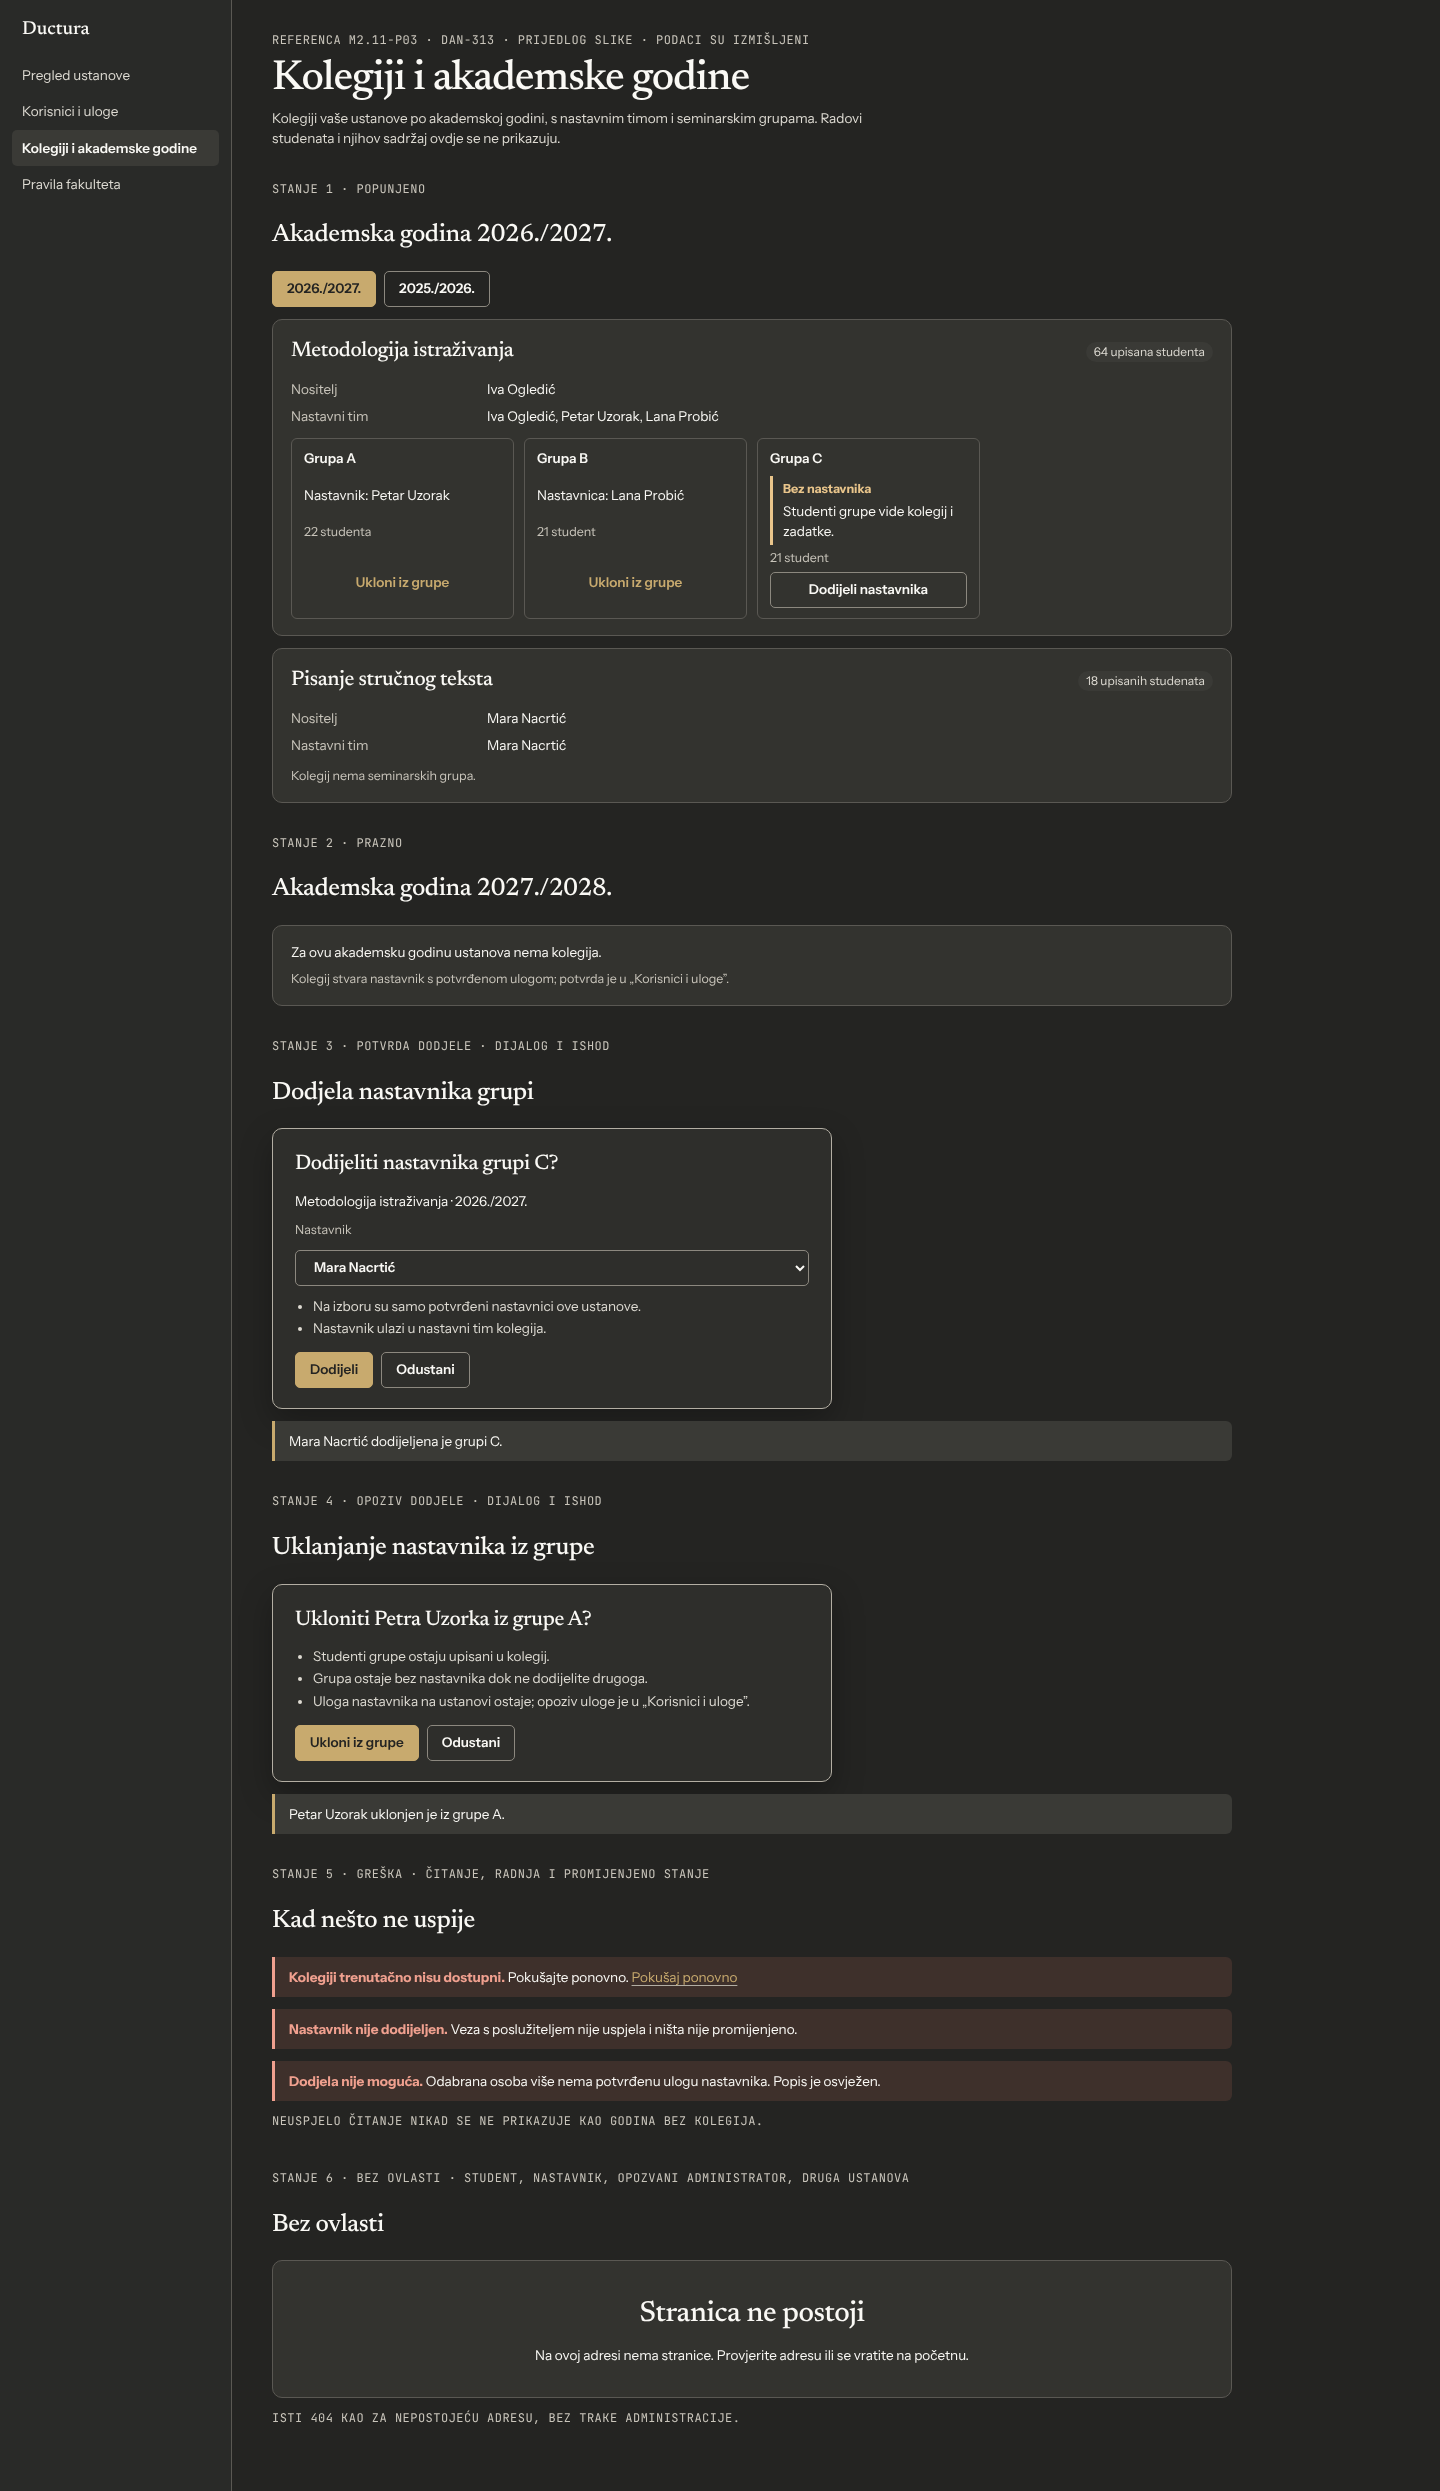
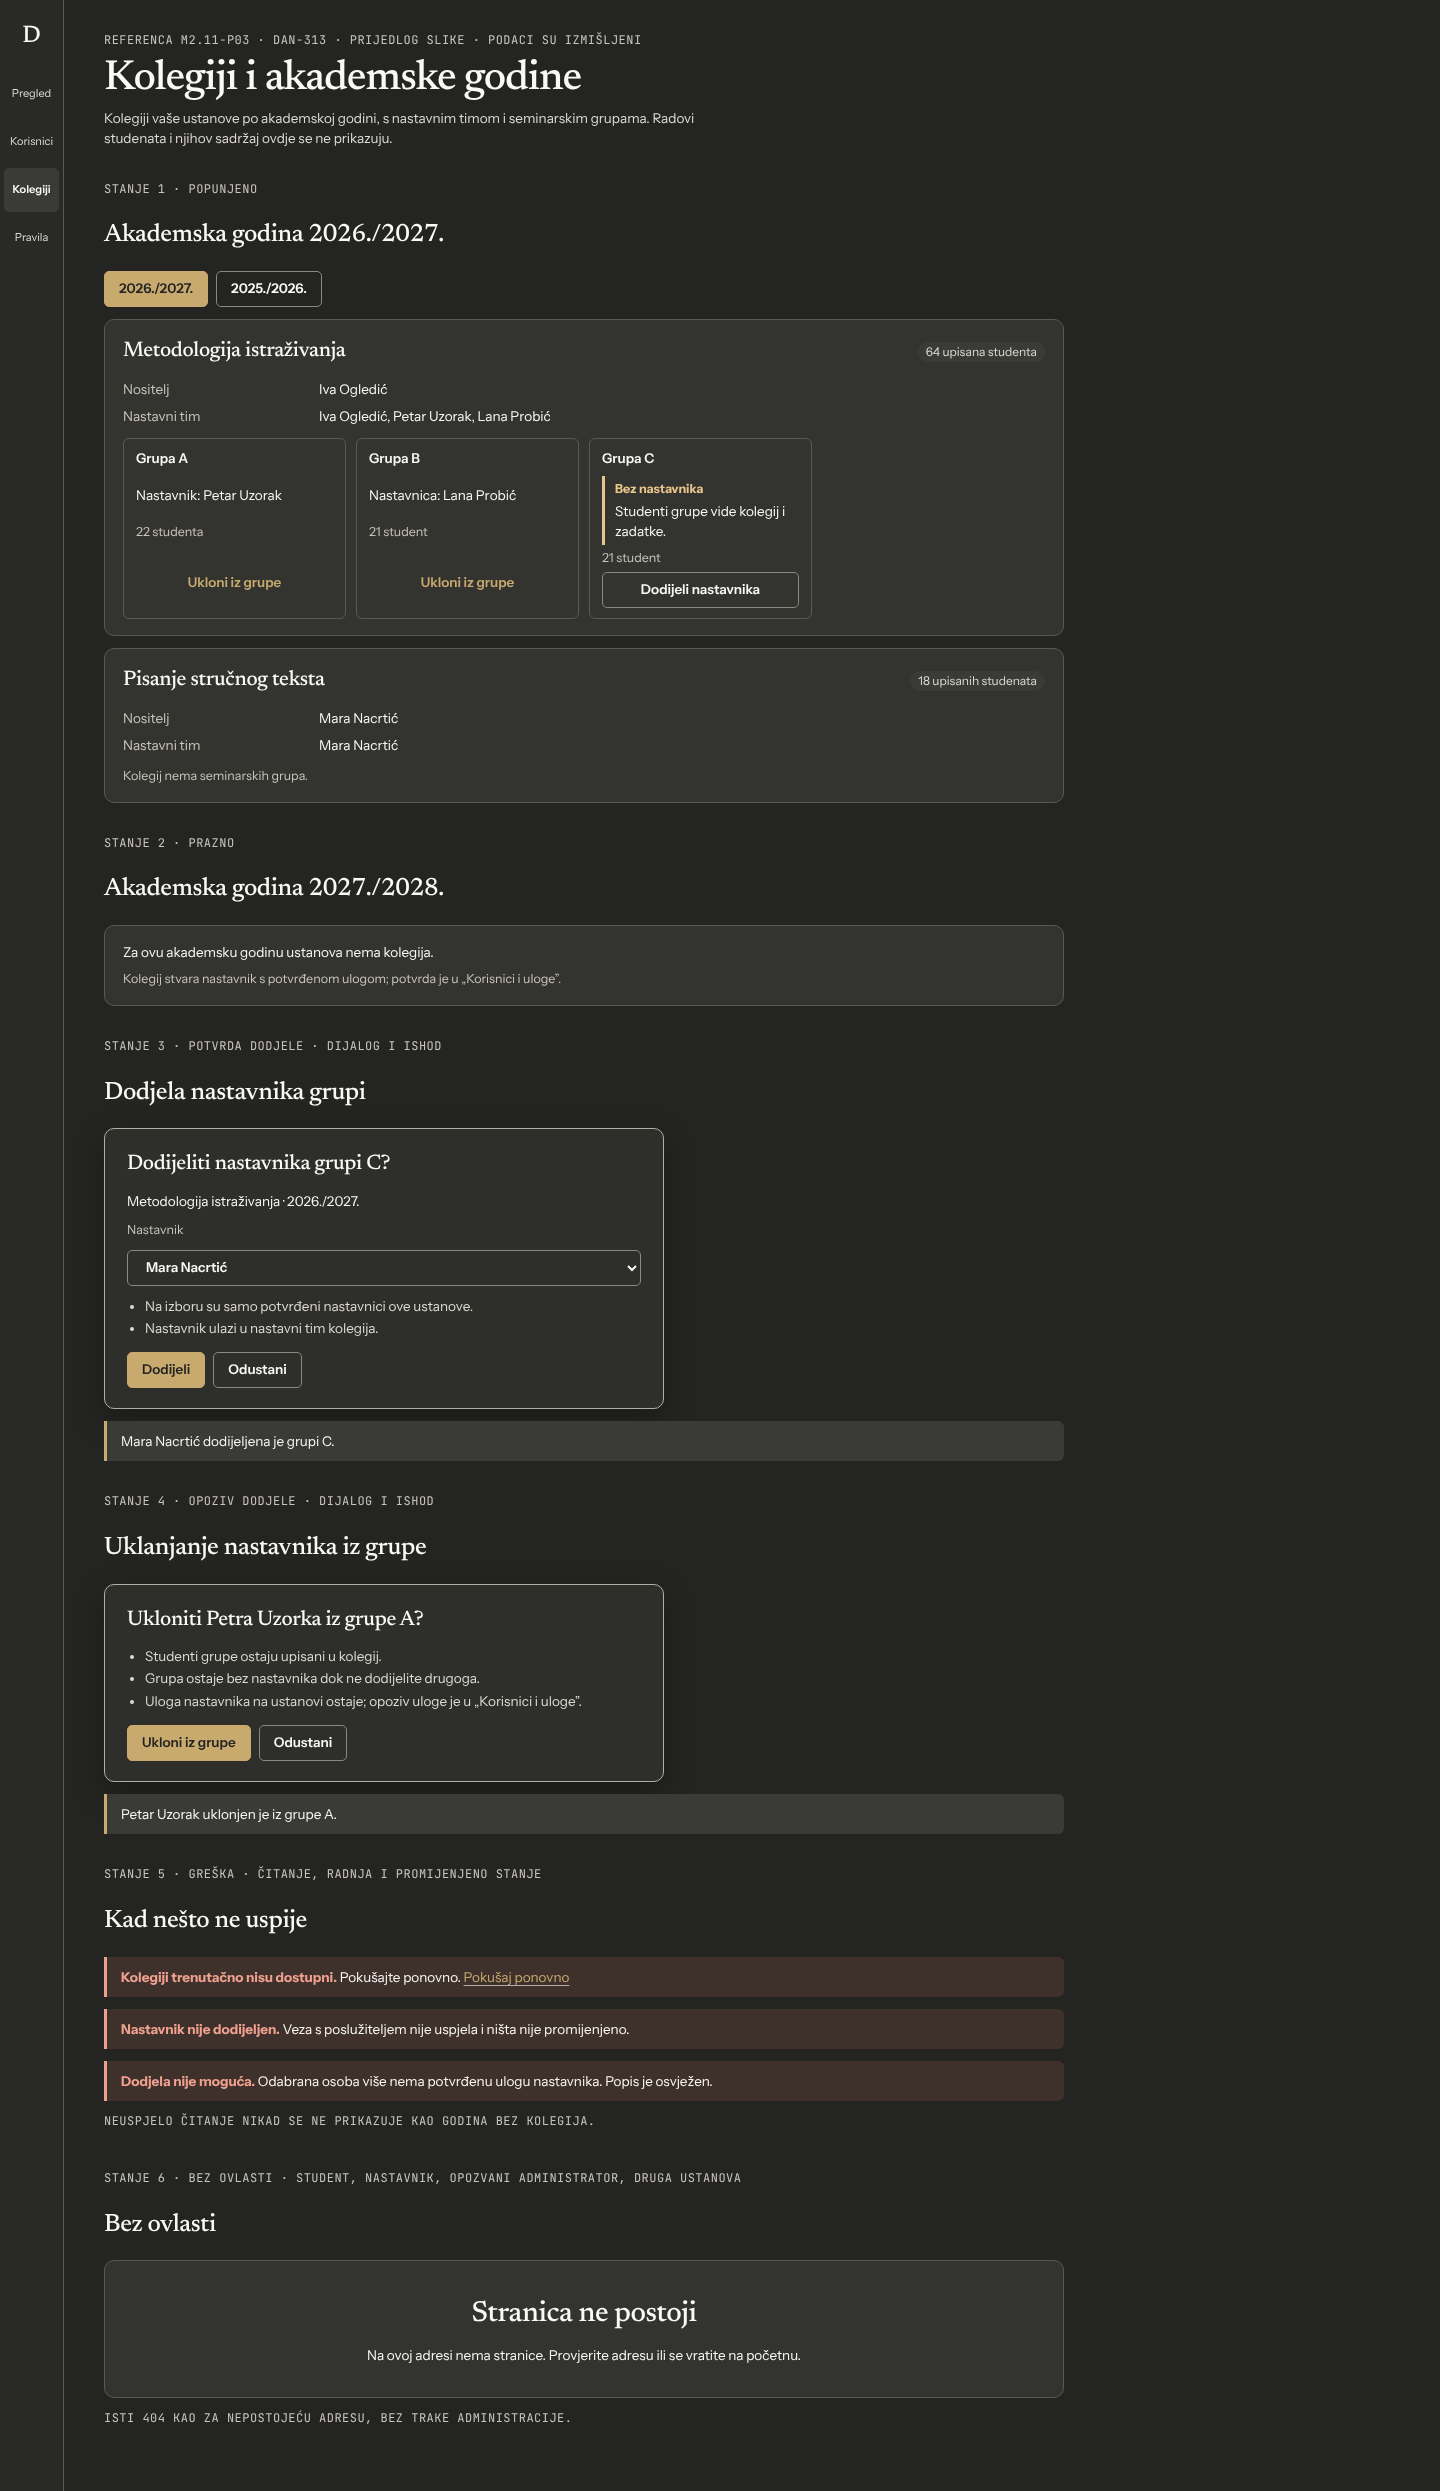
fix: use the 64 px D-202 rail in M2.11 references (DAN-313)
Claude-Session: https://claude.ai/code/session_011GCKG9DPbqrNVnZyCmTEnY

diff --git a/docs/design/ductura/m2-reference/reference.css b/docs/design/ductura/m2-reference/reference.css
@@ -30,11 +30,14 @@ a { color: var(--accent); text-decoration: underline; text-decoration-color: var
 /* Oznake varijanti nisu dio sučelja. */
 .ref-tag { font: 12px/1.4 var(--ff-mono); color: var(--ink-3); text-transform: uppercase; letter-spacing: 0.04em; margin-bottom: 8px; }
 
-/* Ljuska administracije (kao A-04) */
-.shell { display: grid; grid-template-columns: 232px minmax(0, 1fr); min-height: 100vh; }
-.side { background: var(--chrome); border-right: 1px solid var(--rule-2); padding: 20px 12px; }
-.side .brand { font: 500 19px/1 var(--ff-display); padding: 0 10px 18px; }
-.side nav a { display: block; padding: 8px 10px; border-radius: 5px; color: var(--ink-2); text-decoration: none; min-height: 32px; }
+/* Ljuska administracije: uska bočna traka od 64 px (D-202 t. 1). Ikone iz
+   paketa se ne koriste (D-203 t. 8), pa stavke nose kratak tekst. */
+.shell { display: grid; grid-template-columns: 64px minmax(0, 1fr); min-height: 100vh; }
+.side { background: var(--chrome); border-right: 1px solid var(--rule-2); padding: 14px 4px; display: grid; align-content: start; gap: 14px; }
+.side .brand { display: grid; place-items: center; min-height: 44px; color: var(--ink); text-decoration: none; font: 500 24px/1 var(--ff-display); }
+.side .brand .word { display: none; }
+.side nav { display: grid; gap: 4px; }
+.side nav a { display: grid; place-items: center; text-align: center; min-height: 44px; padding: 6px 2px; border-radius: 5px; color: var(--ink-2); text-decoration: none; font-size: 11px; line-height: 1.2; }
 .side nav a[aria-current] { background: var(--well); color: var(--ink); font-weight: 600; }
 .menu { display: none; }
 .main { padding: 32px 40px 56px; max-width: 1040px; display: grid; gap: 32px; min-width: 0; }
@@ -85,7 +88,9 @@ dl.kv dd { margin: 0; }
   .shell { grid-template-columns: minmax(0, 1fr); }
   .side { border-right: 0; border-bottom: 1px solid var(--rule-2); padding: 12px 16px; display: flex; justify-content: space-between; align-items: center; }
   .side nav { display: none; }
-  .side .brand { padding: 0; }
+  .side .brand { padding: 0; min-height: 0; }
+  .side .brand .mark { display: none; }
+  .side .brand .word { display: inline; font-size: 19px; }
   .menu { display: inline-block; }
 }
 @media (max-width: 640px) {

diff --git a/docs/design/ductura/m2-reference/a02-korisnici-i-uloge.html b/docs/design/ductura/m2-reference/a02-korisnici-i-uloge.html
@@ -9,13 +9,13 @@
 <body>
 <div class="shell">
   <aside class="side">
-    <div class="brand">Ductura</div>
+    <a class="brand" href="#" aria-label="Ductura, početna stranica administracije"><span class="mark" aria-hidden="true">D</span><span class="word">Ductura</span></a>
     <button class="btn secondary menu" type="button" aria-expanded="false">Izbornik</button>
     <nav aria-label="Administracija">
-      <a href="#">Pregled ustanove</a>
-      <a href="#" aria-current="page">Korisnici i uloge</a>
-      <a href="#">Kolegiji i akademske godine</a>
-      <a href="#">Pravila fakulteta</a>
+      <a href="#">Pregled</a>
+      <a href="#" aria-current="page">Korisnici</a>
+      <a href="#">Kolegiji</a>
+      <a href="#">Pravila</a>
     </nav>
   </aside>
   <main class="main">

diff --git a/docs/design/ductura/m2-reference/a03-kolegiji-tim-i-grupe.html b/docs/design/ductura/m2-reference/a03-kolegiji-tim-i-grupe.html
@@ -9,13 +9,13 @@
 <body>
 <div class="shell">
   <aside class="side">
-    <div class="brand">Ductura</div>
+    <a class="brand" href="#" aria-label="Ductura, početna stranica administracije"><span class="mark" aria-hidden="true">D</span><span class="word">Ductura</span></a>
     <button class="btn secondary menu" type="button" aria-expanded="false">Izbornik</button>
     <nav aria-label="Administracija">
-      <a href="#">Pregled ustanove</a>
-      <a href="#">Korisnici i uloge</a>
-      <a href="#" aria-current="page">Kolegiji i akademske godine</a>
-      <a href="#">Pravila fakulteta</a>
+      <a href="#">Pregled</a>
+      <a href="#">Korisnici</a>
+      <a href="#" aria-current="page">Kolegiji</a>
+      <a href="#">Pravila</a>
     </nav>
   </aside>
   <main class="main">

diff --git a/docs/design/ductura/m2-reference/README.md b/docs/design/ductura/m2-reference/README.md
@@ -55,7 +55,8 @@ Snimljeno Playwrightovim Chromiumom, cijela stranica, `deviceScaleFactor` 1. Svi
 
 ## Granice
 
-- Ikone iz dizajnerskog paketa nisu korištene (D-203 t. 8).
+- Ljuska je uska bočna traka od 64 px (D-202 t. 1). Ikone iz dizajnerskog paketa nisu korištene (D-203 t. 8), pa stavke trake nose kratak tekst u metama od 44 px. Ispod 800 px traka postaje izbornik iza gumba „Izbornik”.
+- Znak „D” na vrhu trake je poveznica na početnu stranicu uloge (D-202 t. 2); na uskom zaslonu prikazuje se puni naziv.
 - Svi su podaci izmišljeni: osobe, kolegiji, datumi i brojevi studenata. Nema stvarnih osoba.
 - Oznake u velikim slovima („Stanje 3 · potvrda · dijalog i ishod”) opisuju referencu i nisu tekst sučelja.
 - Administrator ne vidi radove ni njihov sadržaj (`docs/PRODUCT.md` §6); A-03 prikazuje samo brojeve upisanih studenata po kolegiju i grupi.
